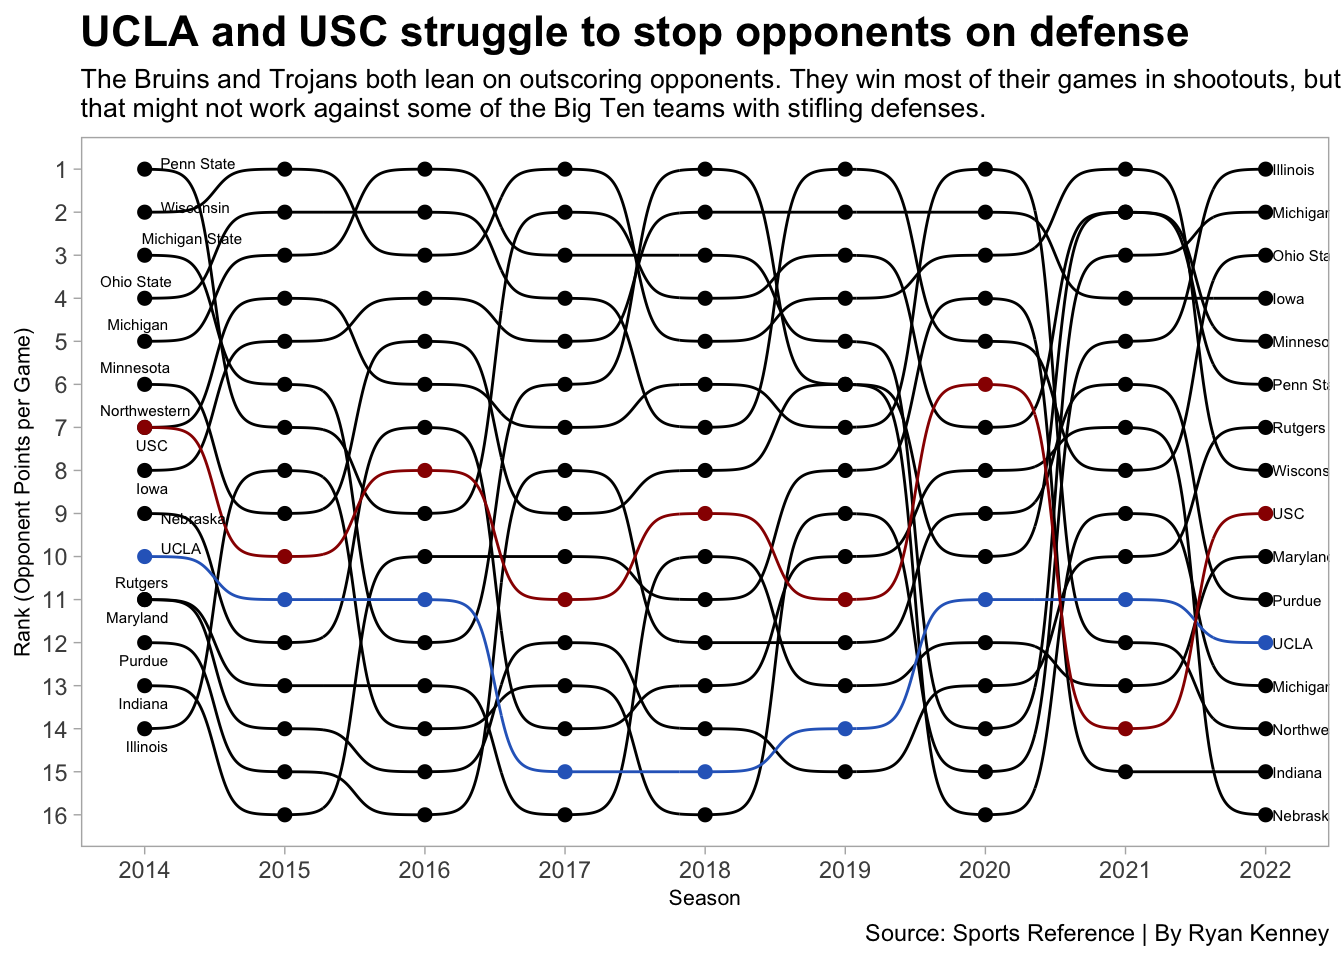
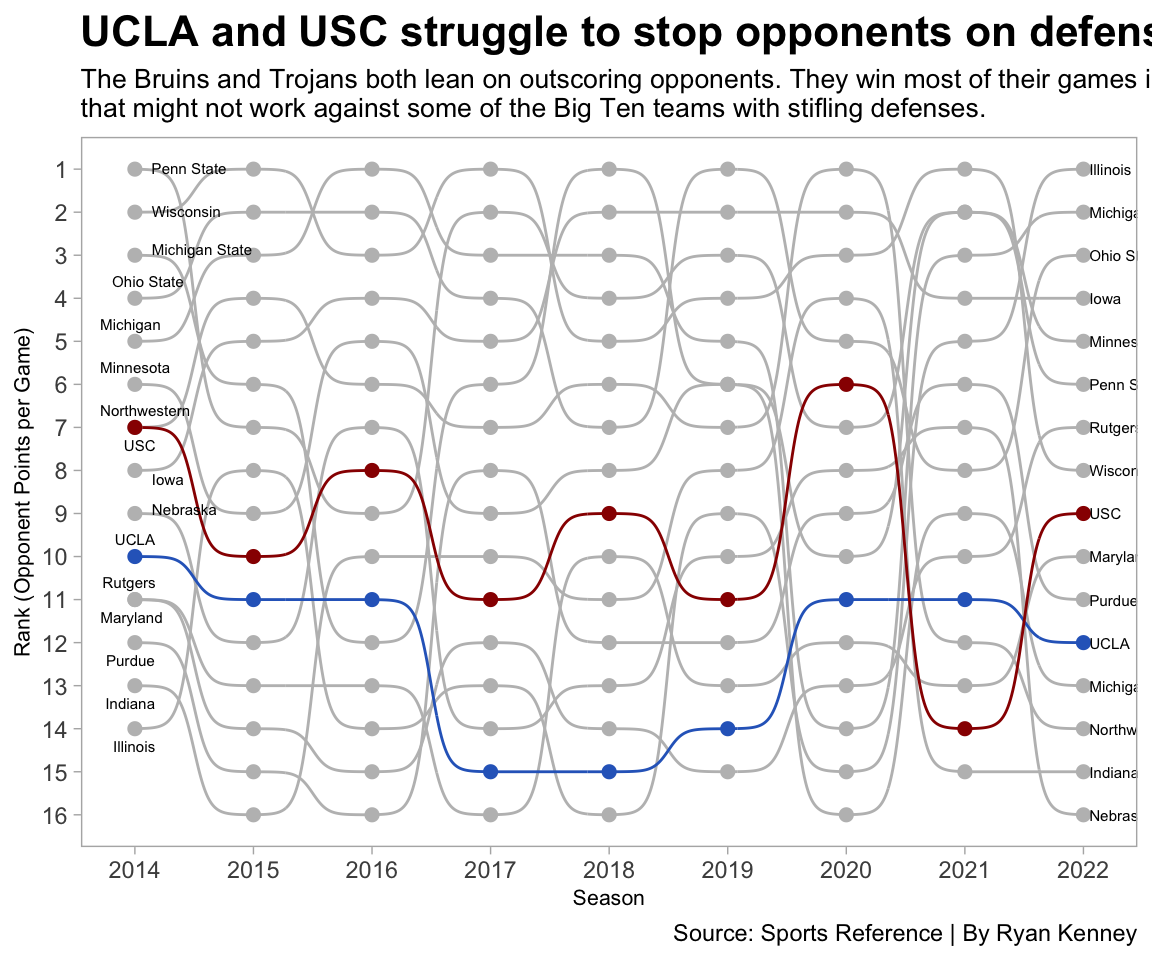
Final

diff --git a/posts/ucla-and-usc-meet-big-ten-style-football/index.html b/posts/ucla-and-usc-meet-big-ten-style-football/index.html
@@ -319,7 +319,7 @@ code span.wa { color: #60a0b0; font-weight: bold; font-style: italic; } /* Warni
 <p><img src="index_files/figure-html/unnamed-chunk-1-1.png" class="img-fluid" width="672"></p>
 </div>
 </div>
-<p>UCLA comes in as the second-best rushing offense in the Big Ten this seasoning only behind Michigan, who is averaging 250 rushing yards per game. USC also hangs in there, coming in above average at seventh. However, UCLA comes in at the middle of the pack in rushing defense and USC lands as the fifth-worst Big Ten rush defense, giving up an average of nearly 150 yards per game on the ground.</p>
+<p>UCLA comes in as the second-best rushing offense in the Big Ten this seasoning only behind Michigan, who is averaging 250 rushing yards per game. USC also hangs in there, coming in above average at seventh to add to their dynamic passing offense. However, UCLA comes in at the middle of the pack in rushing defense and USC lands as the fifth-worst Big Ten rush defense, giving up an average of nearly 150 yards per game on the ground.</p>
 <p>Maybe UCLA and USC will be able to hang in games on the offensive side of the ball. But, it’s important to consider they’ll be facing tougher rushing defenses. The current Pac-12 rushing defense leader, Oregon, would only be fifth-best in the current Big Ten. So, the newcomers will need to get some stops on the defensive side as well to win games in their new conference.</p>
 <p>Let’s take a closer look at how UCLA and USC’s defenses compare to the rest of the Big Ten since its expansion in 2014.</p>
 <div class="cell">
@@ -340,7 +340,7 @@ code span.wa { color: #60a0b0; font-weight: bold; font-style: italic; } /* Warni
 <span id="cb2-13"><a href="#cb2-13" aria-hidden="true" tabindex="-1"></a>  <span class="fu">geom_text_repel</span>(<span class="at">data =</span> bigtenrank <span class="sc">%&gt;%</span> <span class="fu">filter</span>(<span class="fu">as.numeric</span>(Season) <span class="sc">==</span> <span class="dv">2014</span>), <span class="fu">aes</span>(<span class="at">x =</span> <span class="fu">as.numeric</span>(Season) <span class="sc">-</span> .<span class="dv">05</span>, <span class="at">y=</span>Rank, <span class="at">label =</span> School), <span class="at">size =</span> <span class="dv">2</span>, <span class="at">hjust =</span> <span class="dv">1</span>) <span class="sc">+</span></span>
 <span id="cb2-14"><a href="#cb2-14" aria-hidden="true" tabindex="-1"></a>  <span class="fu">geom_text</span>(<span class="at">data =</span> bigtenrank <span class="sc">%&gt;%</span> <span class="fu">filter</span>(<span class="fu">as.numeric</span>(Season) <span class="sc">==</span> <span class="dv">2022</span>), <span class="fu">aes</span>(<span class="at">x =</span> <span class="fu">as.numeric</span>(Season) <span class="sc">+</span> .<span class="dv">05</span>, <span class="at">y=</span>Rank, <span class="at">label =</span> School), <span class="at">size =</span> <span class="dv">2</span>, <span class="at">hjust =</span> <span class="dv">0</span>) <span class="sc">+</span></span>
 <span id="cb2-15"><a href="#cb2-15" aria-hidden="true" tabindex="-1"></a>  </span>
-<span id="cb2-16"><a href="#cb2-16" aria-hidden="true" tabindex="-1"></a>  <span class="fu">scale_color_manual</span>(<span class="at">values =</span> <span class="fu">c</span>(<span class="st">"#000000"</span>,<span class="st">"#000000"</span>, <span class="st">"#000000"</span>, <span class="st">"#000000"</span>, <span class="st">"#000000"</span>, <span class="st">"#000000"</span>,<span class="st">"#000000"</span>, <span class="st">"#000000"</span>, <span class="st">"#000000"</span>, <span class="st">"#000000"</span>, <span class="st">"#000000"</span>, <span class="st">"#000000"</span>, <span class="st">"#000000"</span>,<span class="st">"#2D68C4"</span>,<span class="st">"#990000"</span>,<span class="st">"#000000"</span>)) <span class="sc">+</span></span>
+<span id="cb2-16"><a href="#cb2-16" aria-hidden="true" tabindex="-1"></a>  <span class="fu">scale_color_manual</span>(<span class="at">values =</span> <span class="fu">c</span>(<span class="st">"grey"</span>,<span class="st">"grey"</span>, <span class="st">"grey"</span>, <span class="st">"grey"</span>, <span class="st">"grey"</span>, <span class="st">"grey"</span>,<span class="st">"grey"</span>, <span class="st">"grey"</span>, <span class="st">"grey"</span>, <span class="st">"grey"</span>, <span class="st">"grey"</span>, <span class="st">"grey"</span>, <span class="st">"grey"</span>,<span class="st">"#2D68C4"</span>,<span class="st">"#990000"</span>,<span class="st">"grey"</span>)) <span class="sc">+</span></span>
 <span id="cb2-17"><a href="#cb2-17" aria-hidden="true" tabindex="-1"></a>  </span>
 <span id="cb2-18"><a href="#cb2-18" aria-hidden="true" tabindex="-1"></a>  <span class="fu">scale_x_continuous</span>(<span class="at">breaks=</span><span class="fu">c</span>(<span class="dv">2014</span>, <span class="dv">2015</span>, <span class="dv">2016</span>, <span class="dv">2017</span>, <span class="dv">2018</span>, <span class="dv">2019</span>, <span class="dv">2020</span>, <span class="dv">2021</span>, <span class="dv">2022</span>)) <span class="sc">+</span></span>
 <span id="cb2-19"><a href="#cb2-19" aria-hidden="true" tabindex="-1"></a>  <span class="fu">scale_y_reverse</span>(<span class="at">breaks=</span><span class="fu">c</span>(<span class="dv">1</span>,<span class="dv">2</span>,<span class="dv">3</span>,<span class="dv">4</span>,<span class="dv">5</span>,<span class="dv">6</span>,<span class="dv">7</span>,<span class="dv">8</span>,<span class="dv">9</span>,<span class="dv">10</span>,<span class="dv">11</span>,<span class="dv">12</span>,<span class="dv">13</span>,<span class="dv">14</span>,<span class="dv">15</span>,<span class="dv">16</span>)) <span class="sc">+</span></span>
@@ -358,7 +358,7 @@ code span.wa { color: #60a0b0; font-weight: bold; font-style: italic; } /* Warni
 <span id="cb2-31"><a href="#cb2-31" aria-hidden="true" tabindex="-1"></a>  )</span></code><button title="Copy to Clipboard" class="code-copy-button"><i class="bi"></i></button></pre></div>
 </details>
 <div class="cell-output-display">
-<p><img src="index_files/figure-html/unnamed-chunk-2-1.png" class="img-fluid" width="672"></p>
+<p><img src="index_files/figure-html/unnamed-chunk-2-1.png" class="img-fluid" width="576"></p>
 </div>
 </div>
 <p>Not too great. UCLA consistently hangs out with the Big Ten defenses that give up the most points per game. USC isn’t much better, peaking at sixth-best in 2020 before plummeting to the second-worst in 2021.</p>
